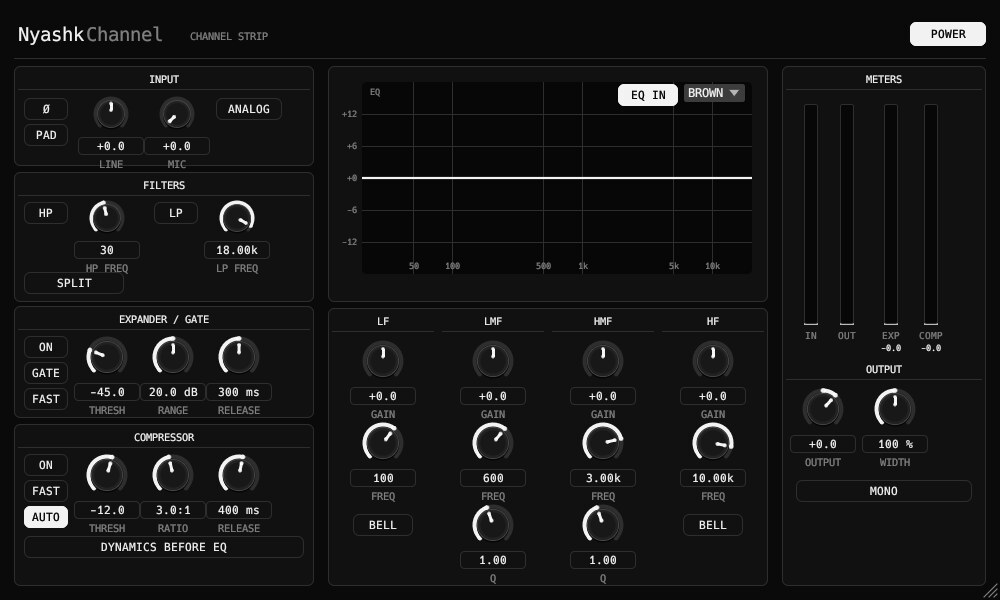
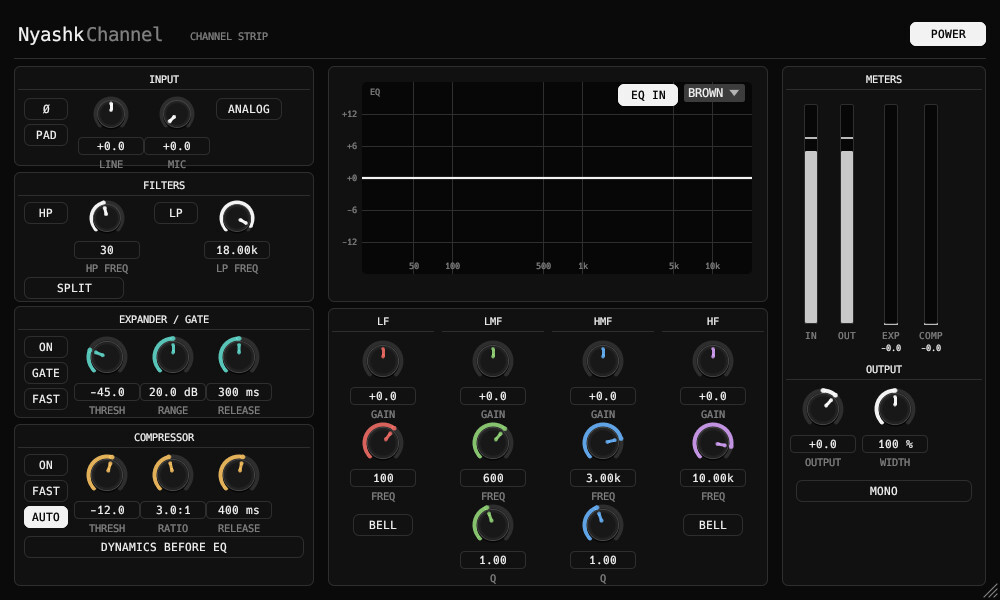
Fix spectrum fill, Air curve dip, NaN guard, band colours, stress tests
Claude-Session: https://claude.ai/code/session_01EndxvcXZsUxUuBFyUHCgZr

diff --git a/plugins/nyashkchannel/src/editor.rs b/plugins/nyashkchannel/src/editor.rs
@@ -86,7 +86,7 @@ pub fn create(params: Arc<ChannelParams>, meters: Arc<Meters>) -> Option<Box<dyn
                 knob_r(ui, setter, &p.hp_f, "HP FREQ", rect(lx + 60.0, 196.0, cw, 72.0), "High-pass frequency.", false, r - 3.0);
                 tg(ui, lx + 140.0, 202.0, 44.0, "LP", p.lp_on.value(), &p.lp_on, "Low-pass filter (12 dB/oct).");
                 knob_r(ui, setter, &p.lp_f, "LP FREQ", rect(lx + 190.0, 196.0, cw, 72.0), "Low-pass frequency.", false, r - 3.0);
-                tg(ui, lx + 10.0, 272.0, 100.0, "SPLIT", p.split.value(), &p.split, "Filters act on the dynamics sidechain only, not on the audio.");
+                tg(ui, lx + 10.0, 277.0, 100.0, "SPLIT", p.split.value(), &p.split, "Filters act on the dynamics sidechain only, not on the audio.");
 
                 // expander / gate
                 panel(ui, rect(lx, 306.0, lw, 112.0));
@@ -94,9 +94,9 @@ pub fn create(params: Arc<ChannelParams>, meters: Arc<Meters>) -> Option<Box<dyn
                 tg(ui, lx + 10.0, 336.0, 44.0, "ON", p.x_on.value(), &p.x_on, "Switch the expander on.");
                 tg(ui, lx + 10.0, 362.0, 44.0, "GATE", p.x_gate.value(), &p.x_gate, "Hard gate instead of a soft expander.");
                 tg(ui, lx + 10.0, 388.0, 44.0, "FAST", p.x_fast.value(), &p.x_fast, "Fast attack.");
-                knob_r(ui, setter, &p.x_thr, "THRESH", rect(lx + 60.0, 332.0, cw, ch), "Level below which the signal is reduced.", false, r);
-                knob_r(ui, setter, &p.x_range, "RANGE", rect(lx + 60.0 + cw, 332.0, cw, ch), "Maximum reduction in dB.", false, r);
-                knob_r(ui, setter, &p.x_rel, "RELEASE", rect(lx + 60.0 + cw * 2.0, 332.0, cw, ch), "Release time.", false, r);
+                knob_ac(ui, setter, &p.x_thr, "THRESH", rect(lx + 60.0, 332.0, cw, ch), "Level below which the signal is reduced.", false, r, C_GATE);
+                knob_ac(ui, setter, &p.x_range, "RANGE", rect(lx + 60.0 + cw, 332.0, cw, ch), "Maximum reduction in dB.", false, r, C_GATE);
+                knob_ac(ui, setter, &p.x_rel, "RELEASE", rect(lx + 60.0 + cw * 2.0, 332.0, cw, ch), "Release time.", false, r, C_GATE);
 
                 // compressor
                 panel(ui, rect(lx, 424.0, lw, 162.0));
@@ -104,9 +104,9 @@ pub fn create(params: Arc<ChannelParams>, meters: Arc<Meters>) -> Option<Box<dyn
                 tg(ui, lx + 10.0, 454.0, 44.0, "ON", p.c_on.value(), &p.c_on, "Switch the compressor on.");
                 tg(ui, lx + 10.0, 480.0, 44.0, "FAST", p.c_fast.value(), &p.c_fast, "Fast attack.");
                 tg(ui, lx + 10.0, 506.0, 44.0, "AUTO", p.c_auto.value(), &p.c_auto, "Automatic makeup gain.");
-                knob_r(ui, setter, &p.c_thr, "THRESH", rect(lx + 60.0, 450.0, cw, ch), "Level above which compression starts.", false, r);
-                knob_r(ui, setter, &p.c_ratio, "RATIO", rect(lx + 60.0 + cw, 450.0, cw, ch), "Compression ratio.", false, r);
-                knob_r(ui, setter, &p.c_rel, "RELEASE", rect(lx + 60.0 + cw * 2.0, 450.0, cw, ch), "Release time.", false, r);
+                knob_ac(ui, setter, &p.c_thr, "THRESH", rect(lx + 60.0, 450.0, cw, ch), "Level above which compression starts.", false, r, C_DYN);
+                knob_ac(ui, setter, &p.c_ratio, "RATIO", rect(lx + 60.0 + cw, 450.0, cw, ch), "Compression ratio.", false, r, C_DYN);
+                knob_ac(ui, setter, &p.c_rel, "RELEASE", rect(lx + 60.0 + cw * 2.0, 450.0, cw, ch), "Release time.", false, r, C_DYN);
                 let dp = p.dyn_post.value();
                 tg(ui, lx + 10.0, 536.0, lw - 20.0, if dp { "DYNAMICS AFTER EQ" } else { "DYNAMICS BEFORE EQ" }, dp, &p.dyn_post, "Choose whether the dynamics come before or after the EQ.");
 
@@ -149,23 +149,23 @@ pub fn create(params: Arc<ChannelParams>, meters: Arc<Meters>) -> Option<Box<dyn
                     let cell = |row: f32| rect(x0 + (bw - cw) * 0.5, 336.0 + row * 82.0, cw, ch);
                     match name {
                         "LF" => {
-                            knob_r(ui, setter, &p.lf_g, "GAIN", cell(0.0), "Low band gain.", true, r);
-                            knob_r(ui, setter, &p.lf_f, "FREQ", cell(1.0), "Low band frequency.", false, r);
+                            knob_ac(ui, setter, &p.lf_g, "GAIN", cell(0.0), "Low band gain.", true, r, C_LF);
+                            knob_ac(ui, setter, &p.lf_f, "FREQ", cell(1.0), "Low band frequency.", false, r, C_LF);
                             tg(ui, x0 + (bw - 60.0) * 0.5, 336.0 + 2.0 * 82.0 + 14.0, 60.0, "BELL", p.lf_bell.value(), &p.lf_bell, "Bell instead of shelf.");
                         }
                         "LMF" => {
-                            knob_r(ui, setter, &p.lmf_g, "GAIN", cell(0.0), "Low-mid gain.", true, r);
-                            knob_r(ui, setter, &p.lmf_f, "FREQ", cell(1.0), "Low-mid frequency.", false, r);
-                            knob_r(ui, setter, &p.lmf_q, "Q", cell(2.0), "Low-mid bandwidth.", false, r);
+                            knob_ac(ui, setter, &p.lmf_g, "GAIN", cell(0.0), "Low-mid gain.", true, r, C_LMF);
+                            knob_ac(ui, setter, &p.lmf_f, "FREQ", cell(1.0), "Low-mid frequency.", false, r, C_LMF);
+                            knob_ac(ui, setter, &p.lmf_q, "Q", cell(2.0), "Low-mid bandwidth.", false, r, C_LMF);
                         }
                         "HMF" => {
-                            knob_r(ui, setter, &p.hmf_g, "GAIN", cell(0.0), "High-mid gain.", true, r);
-                            knob_r(ui, setter, &p.hmf_f, "FREQ", cell(1.0), "High-mid frequency.", false, r);
-                            knob_r(ui, setter, &p.hmf_q, "Q", cell(2.0), "High-mid bandwidth.", false, r);
+                            knob_ac(ui, setter, &p.hmf_g, "GAIN", cell(0.0), "High-mid gain.", true, r, C_HMF);
+                            knob_ac(ui, setter, &p.hmf_f, "FREQ", cell(1.0), "High-mid frequency.", false, r, C_HMF);
+                            knob_ac(ui, setter, &p.hmf_q, "Q", cell(2.0), "High-mid bandwidth.", false, r, C_HMF);
                         }
                         _ => {
-                            knob_r(ui, setter, &p.hf_g, "GAIN", cell(0.0), "High band gain.", true, r);
-                            knob_r(ui, setter, &p.hf_f, "FREQ", cell(1.0), "High band frequency.", false, r);
+                            knob_ac(ui, setter, &p.hf_g, "GAIN", cell(0.0), "High band gain.", true, r, C_HF);
+                            knob_ac(ui, setter, &p.hf_f, "FREQ", cell(1.0), "High band frequency.", false, r, C_HF);
                             tg(ui, x0 + (bw - 60.0) * 0.5, 336.0 + 2.0 * 82.0 + 14.0, 60.0, "BELL", p.hf_bell.value(), &p.hf_bell, "Bell instead of shelf.");
                         }
                     }

diff --git a/crates/common/src/ui.rs b/crates/common/src/ui.rs
@@ -51,8 +51,22 @@ pub fn knob<P: Param>(ui: &mut Ui, setter: &ParamSetter, p: &P, label: &str, cel
     knob_r(ui, setter, p, label, cell, tooltip, bipolar, 30.0)
 }
 
+/// Band colours (muted so they sit well on the black UI): used by the EQ and the channel strip.
+pub const C_LF: Color32 = Color32::from_rgb(0xd8, 0x62, 0x5c);
+pub const C_LMF: Color32 = Color32::from_rgb(0x86, 0xc2, 0x6e);
+pub const C_HMF: Color32 = Color32::from_rgb(0x5f, 0xa3, 0xe4);
+pub const C_HF: Color32 = Color32::from_rgb(0xc0, 0x92, 0xe0);
+pub const C_DYN: Color32 = Color32::from_rgb(0xe2, 0xb0, 0x58);
+pub const C_GATE: Color32 = Color32::from_rgb(0x58, 0xc4, 0xb8);
+
 #[allow(clippy::too_many_arguments)]
 pub fn knob_r<P: Param>(ui: &mut Ui, setter: &ParamSetter, p: &P, label: &str, cell: Rect, tooltip: &str, bipolar: bool, r: f32) -> KnobEv {
+    knob_ac(ui, setter, p, label, cell, tooltip, bipolar, r, WHITE)
+}
+
+/// Knob with an accent colour for the value arc and pointer.
+#[allow(clippy::too_many_arguments)]
+pub fn knob_ac<P: Param>(ui: &mut Ui, setter: &ParamSetter, p: &P, label: &str, cell: Rect, tooltip: &str, bipolar: bool, r: f32, accent: Color32) -> KnobEv {
     let c = Pos2::new(cell.center().x, cell.top() + r + 4.0);
     let hit = Rect::from_center_size(c, Vec2::splat(2.0 * r + 8.0));
     let resp = ui.allocate_rect(hit, Sense::click_and_drag());
@@ -116,9 +130,9 @@ pub fn knob_r<P: Param>(ui: &mut Ui, setter: &ParamSetter, p: &P, label: &str, c
     painter.circle_filled(pt(ring, 1.0), 2.0, LINE);
     let from = if bipolar { 0.5 } else { 0.0 };
     if (norm - from).abs() > 0.002 {
-        painter.add(egui::Shape::line(arc(from, norm), PathStroke::new(4.0, WHITE)));
-        painter.circle_filled(pt(ring, from), 2.0, WHITE);
-        painter.circle_filled(pt(ring, norm), 2.0, WHITE);
+        painter.add(egui::Shape::line(arc(from, norm), PathStroke::new(4.0, accent)));
+        painter.circle_filled(pt(ring, from), 2.0, accent);
+        painter.circle_filled(pt(ring, norm), 2.0, accent);
     }
     // round knob body
     let body = r * 0.72;
@@ -127,9 +141,9 @@ pub fn knob_r<P: Param>(ui: &mut Ui, setter: &ParamSetter, p: &P, label: &str, c
     painter.circle_filled(c, body * 0.84, Color32::from_rgb(24, 24, 24));
     painter.circle_stroke(c, body, Stroke::new(1.0, Color32::from_rgb(70, 70, 70)));
     // pointer
-    painter.line_segment([pt(body * 0.30, norm), pt(body * 0.80, norm)], Stroke::new(3.0, WHITE));
-    painter.circle_filled(pt(body * 0.80, norm), 1.5, WHITE);
-    painter.circle_filled(pt(body * 0.30, norm), 1.5, WHITE);
+    painter.line_segment([pt(body * 0.30, norm), pt(body * 0.80, norm)], Stroke::new(3.0, accent));
+    painter.circle_filled(pt(body * 0.80, norm), 1.5, accent);
+    painter.circle_filled(pt(body * 0.30, norm), 1.5, accent);
 
     // value + label (click the value box to type a number)
     let val = p.normalized_value_to_string(norm, true);
@@ -296,4 +310,23 @@ pub fn vbar(ui: &Ui, rect: Rect, level_db: f32, peak_db: f32, lo: f32, hi: f32) 
 pub fn led(ui: &Ui, c: Pos2, on: bool) {
     ui.painter().circle_filled(c, 3.5, if on { WHITE } else { Color32::from_rgb(0x2a, 0x2a, 0x2a) });
     ui.painter().circle_stroke(c, 3.5, Stroke::new(1.0, LINE));
+}
+
+/// Fill the area between a polyline and the horizontal line `base_y`.
+/// egui fills only convex polygons, so a spectrum has to be drawn as a strip of quads.
+pub fn fill_under(painter: &egui::Painter, pts: &[Pos2], base_y: f32, color: Color32) {
+    if pts.len() < 2 {
+        return;
+    }
+    let mut mesh = egui::epaint::Mesh::default();
+    let uv = egui::epaint::WHITE_UV;
+    for w in pts.windows(2) {
+        let (a, b) = (w[0], w[1]);
+        let i = mesh.vertices.len() as u32;
+        for p in [a, b, Pos2::new(b.x, base_y), Pos2::new(a.x, base_y)] {
+            mesh.vertices.push(egui::epaint::Vertex { pos: p, uv, color });
+        }
+        mesh.indices.extend_from_slice(&[i, i + 1, i + 2, i, i + 2, i + 3]);
+    }
+    painter.add(egui::Shape::mesh(mesh));
 }

diff --git a/plugins/nyashkchannel/tests/stress.rs b/plugins/nyashkchannel/tests/stress.rs
@@ -1,0 +1,70 @@
+use nyashkchannel::dsp::*;
+
+fn extreme() -> Params {
+    let mut p = Params::default();
+    p.mic_db = 50.0;
+    p.line_db = 20.0;
+    p.analog = true;
+    p.hp_on = true;
+    p.hp_f = 350.0;
+    p.lp_on = true;
+    p.lp_f = 3000.0;
+    p.x_on = true;
+    p.x_gate = true;
+    p.x_thr = 0.0;
+    p.x_range = 40.0;
+    p.c_on = true;
+    p.c_ratio = 20.0;
+    p.c_thr = -40.0;
+    p.c_fast = true;
+    p.eq.lf.gain_db = 16.0;
+    p.eq.lmf.gain_db = -16.0;
+    p.eq.lmf.q = 8.0;
+    p.eq.hmf.gain_db = 16.0;
+    p.eq.hmf.q = 8.0;
+    p.eq.hf.gain_db = 16.0;
+    p.width = 2.0;
+    p.out_db = 12.0;
+    p
+}
+
+#[test]
+fn every_sample_rate_and_extreme_setting_stays_finite() {
+    for &fs in &[8000.0f32, 22050.0, 44100.0, 48000.0, 96000.0, 192000.0] {
+        for (name, p) in [("default", Params::default()), ("extreme", extreme())] {
+            for split in [false, true] {
+                for post in [false, true] {
+                    let mut p = Params { split, dyn_post: post, ..p };
+                    p.power = true;
+                    let mut s = Strip::new(fs);
+                    let mut rng = 3u32;
+                    for n in 0..(fs as usize) {
+                        rng = rng.wrapping_mul(1664525).wrapping_add(1013904223);
+                        let w = (rng >> 8) as f32 / 8388608.0 - 1.0;
+                        let v = match (n / 4000) % 4 {
+                            0 => w,
+                            1 => 0.0,
+                            2 => if (n / 20) % 2 == 0 { 1.0 } else { -1.0 },
+                            _ => 1.0,
+                        };
+                        let mut x = [v, -v * 0.7];
+                        s.process(&p, &mut x, 2);
+                        assert!(x[0].is_finite() && x[1].is_finite(), "{name} fs {fs} n {n}");
+                        assert!(x[0].abs() < 1e4 && x[1].abs() < 1e4, "{name} fs {fs} n {n}: {x:?}");
+                    }
+                }
+            }
+        }
+    }
+}
+
+#[test]
+fn mono_channel_works() {
+    let mut s = Strip::new(48000.0);
+    let p = extreme();
+    for n in 0..48000 {
+        let mut x = [(n as f32 * 0.05).sin() * 0.5, 0.0];
+        s.process(&p, &mut x, 1);
+        assert!(x[0].is_finite());
+    }
+}

diff --git a/crates/common/src/demo.rs b/crates/common/src/demo.rs
@@ -1,0 +1,53 @@
+//! Developer helper for screenshots: with `NYASHK_DEMO=1` the standalone builds replace the input
+//! with a music-like test signal (bass, mids, a bit of top, decorrelated noise).
+use nih_plug::prelude::Buffer;
+use std::sync::Mutex;
+
+struct State {
+    n: u64,
+    rng: u32,
+    lp: [f32; 2],
+    on: bool,
+}
+static ST: Mutex<Option<State>> = Mutex::new(None);
+
+pub fn fill(buffer: &mut Buffer, fs: f32) {
+    let mut g = ST.lock().unwrap();
+    let st = g.get_or_insert_with(|| State { n: 0, rng: 12345, lp: [0.0; 2], on: std::env::var("NYASHK_DEMO").is_ok() });
+    if !st.on {
+        return;
+    }
+    for mut frame in buffer.iter_samples() {
+        let t = st.n as f32 / fs;
+        st.n += 1;
+        let beat = (-(t * 2.0 % 1.0) * 5.0).exp();
+        let mut v = [0.0f32; 2];
+        for (c, s) in frame.iter_mut().enumerate() {
+            st.rng = st.rng.wrapping_mul(1664525).wrapping_add(1013904223);
+            let white = (st.rng >> 8) as f32 / 8388608.0 - 1.0;
+            st.lp[c] += 0.15 * (white - st.lp[c]);
+            let w = std::f32::consts::TAU * t;
+            let x = 0.35 * beat * (w * 55.0).sin()
+                + 0.12 * (w * 220.0).sin()
+                + 0.08 * (w * 880.0 + c as f32).sin()
+                + 0.04 * (w * 3300.0).sin()
+                + 0.10 * st.lp[c]
+                + 0.02 * white;
+            v[c] = x;
+            *s = x * 0.9;
+        }
+        let _ = v;
+    }
+}
+
+/// Replace NaN / infinite input samples by silence, so one bad sample from a host cannot
+/// poison the filter states of a plugin forever.
+pub fn sanitize(buffer: &mut Buffer) {
+    for ch in buffer.as_slice() {
+        for s in ch.iter_mut() {
+            if !s.is_finite() {
+                *s = 0.0;
+            }
+        }
+    }
+}

diff --git a/crates/common/src/dsp.rs b/crates/common/src/dsp.rs
@@ -102,6 +102,13 @@ impl Coef {
         Coef { b0: b0 as f32, b1: (-b0) as f32, b2: 0.0, a1: ((k - 1.0) / (1.0 + k)) as f32, a2: 0.0 }
     }
 
+    /// First-order low-pass (6 dB/oct), bilinear.
+    pub fn lowpass1(fs: f32, f: f32) -> Coef {
+        let k = (std::f64::consts::PI * (f as f64).clamp(5.0, fs as f64 * 0.49) / fs as f64).tan();
+        let b0 = k / (1.0 + k);
+        Coef { b0: b0 as f32, b1: b0 as f32, b2: 0.0, a1: ((k - 1.0) / (1.0 + k)) as f32, a2: 0.0 }
+    }
+
     /// Band-pass with constant 0 dB peak gain.
     pub fn bandpass(fs: f32, f: f32, q: f32) -> Coef {
         let f = (f as f64).clamp(5.0, fs as f64 * 0.49);

diff --git a/plugins/nyashkchannel/src/lib.rs b/plugins/nyashkchannel/src/lib.rs
@@ -314,6 +314,9 @@ impl Plugin for NyashkChannel {
     }
 
     fn process(&mut self, buffer: &mut Buffer, _aux: &mut AuxiliaryBuffers, _c: &mut impl ProcessContext<Self>) -> ProcessStatus {
+        nyashk_common::demo::sanitize(buffer);
+        #[cfg(feature = "standalone")]
+        nyashk_common::demo::fill(buffer, 48000.0);
         let Some(strip) = self.strip.as_mut() else { return ProcessStatus::Normal };
         let p = &self.params;
         let mut dp = dsp::Params::default();

diff --git a/crates/common/src/lib.rs b/crates/common/src/lib.rs
@@ -1,4 +1,5 @@
 //! Shared building blocks of the Nyashk plugins: UI widgets, DSP helpers, FFT, EQ core, sample tap.
+pub mod demo;
 pub mod dsp;
 pub mod eq;
 pub mod fft;
